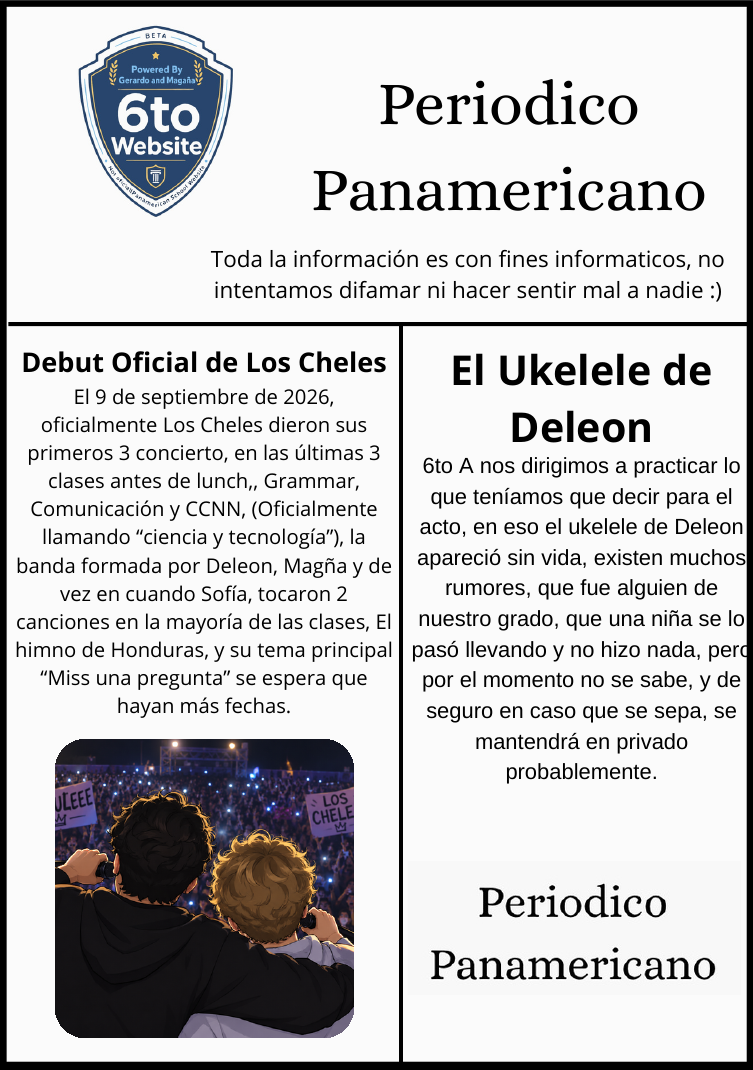
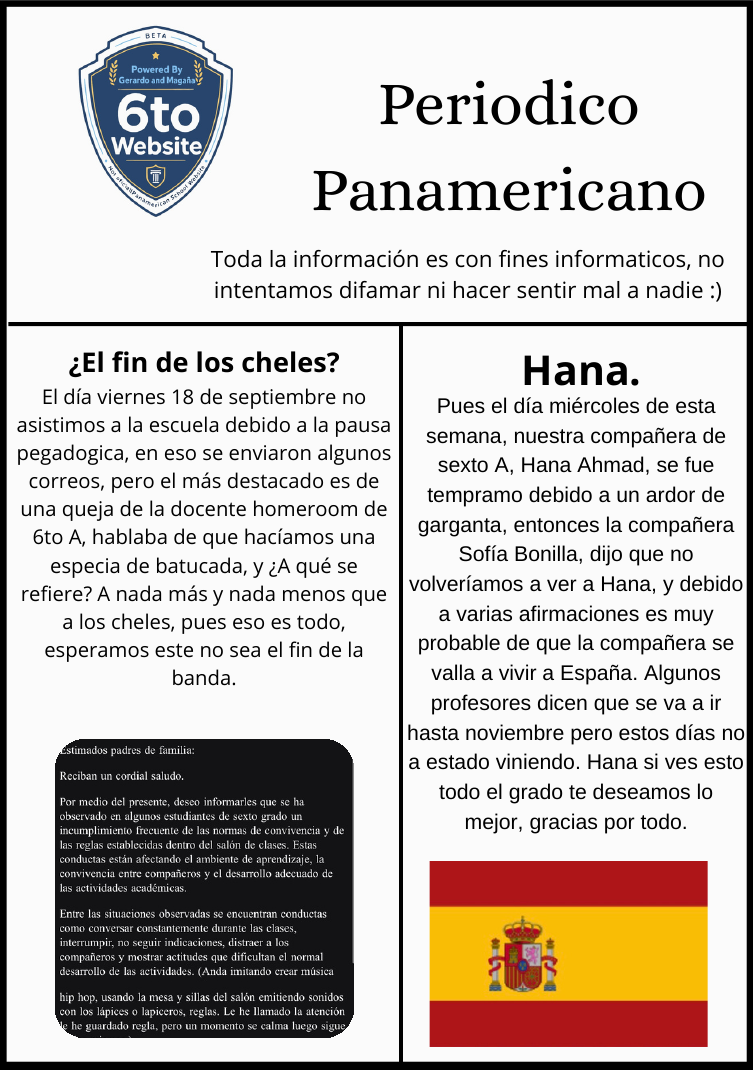
feat(periódico): nueva edición de 3 páginas
Reemplaza el periódico con el PDF nuevo (3 páginas), recortadas al marco
negro. Actualiza el total a 3 y el cache-buster a v5 en la página
standalone y en el libro embebido del home.

Changed region(s): [[0.0305, 0.3084, 0.5193, 0.9869], [0.5498, 0.3084, 1.0, 0.9869]]

diff --git a/index.html b/index.html
@@ -2383,7 +2383,7 @@
       <button class="perio-btn" id="perioPrev" aria-label="Página anterior" title="Anterior">
         <svg viewBox="0 0 24 24" fill="none" stroke="currentColor" stroke-width="2.4" stroke-linecap="round" stroke-linejoin="round"><path d="M15 18l-6-6 6-6"/></svg>
       </button>
-      <div class="perio-indicator"><b id="perioNow">1</b> / <span id="perioTotal">8</span></div>
+      <div class="perio-indicator"><b id="perioNow">1</b> / <span id="perioTotal">3</span></div>
       <button class="perio-btn" id="perioNext" aria-label="Página siguiente" title="Siguiente">
         <svg viewBox="0 0 24 24" fill="none" stroke="currentColor" stroke-width="2.4" stroke-linecap="round" stroke-linejoin="round"><path d="M9 6l6 6-6 6"/></svg>
       </button>
@@ -5378,8 +5378,8 @@
 
   // =================== PERIÓDICO · libro embebido ===================
   (function() {
-    const PAGE_V = '4'; // subir al reemplazar las imágenes (evita caché viejo)
-    const PAGES = [1,2,3,4,5,6,7,8].map(n => `/periodico/pages/${n}.png?v=${PAGE_V}`);
+    const PAGE_V = '5'; // subir al reemplazar las imágenes (evita caché viejo)
+    const PAGES = [1,2,3].map(n => `/periodico/pages/${n}.png?v=${PAGE_V}`);
     const book = document.getElementById('perioBook');
     const prevBtn = document.getElementById('perioPrev');
     const nextBtn = document.getElementById('perioNext');

diff --git a/periodico/index.html b/periodico/index.html
@@ -286,7 +286,7 @@
     <button class="ctrl-btn" id="prevBtn" aria-label="Página anterior" title="Anterior">
       <svg viewBox="0 0 24 24" fill="none" stroke="currentColor" stroke-width="2.4" stroke-linecap="round" stroke-linejoin="round"><path d="M15 18l-6-6 6-6"/></svg>
     </button>
-    <div class="page-indicator"><b id="pageNow">1</b> / <span id="pageTotal">8</span></div>
+    <div class="page-indicator"><b id="pageNow">1</b> / <span id="pageTotal">3</span></div>
     <button class="ctrl-btn" id="nextBtn" aria-label="Página siguiente" title="Siguiente">
       <svg viewBox="0 0 24 24" fill="none" stroke="currentColor" stroke-width="2.4" stroke-linecap="round" stroke-linejoin="round"><path d="M9 6l6 6-6 6"/></svg>
     </button>
@@ -299,8 +299,8 @@
 </main>
 
 <script>
-  const PAGE_V = '4'; // subir cuando se reemplacen las imágenes (evita caché viejo)
-  const PAGES = [1,2,3,4,5,6,7,8].map(n => `/periodico/pages/${n}.png?v=${PAGE_V}`);
+  const PAGE_V = '5'; // subir cuando se reemplacen las imágenes (evita caché viejo)
+  const PAGES = [1,2,3].map(n => `/periodico/pages/${n}.png?v=${PAGE_V}`);
   const book = document.getElementById('book');
   const prevBtn = document.getElementById('prevBtn');
   const nextBtn = document.getElementById('nextBtn');
